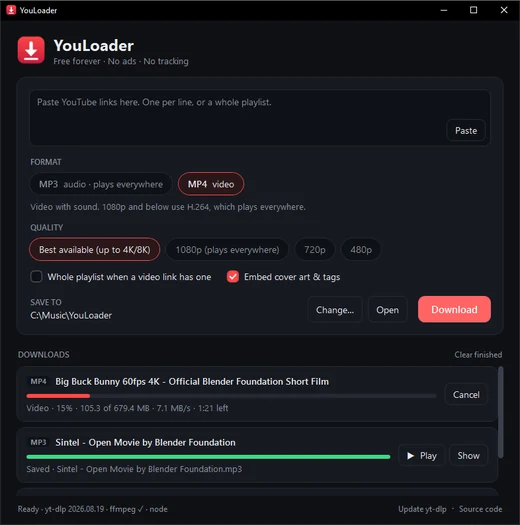
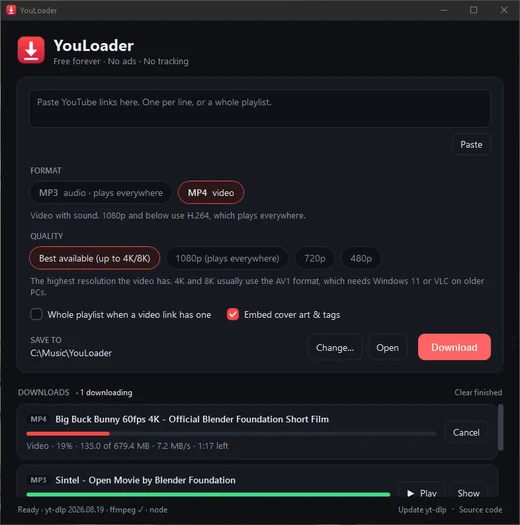
New README; real-download tests become a manual CI option
- README rewritten following common best practices: logo and tagline, live badges, one-click
  download, screenshot, comparison with converter sites, features, quick start, quality guide
  (kbps and VBR explained), FAQ, privacy, build and release steps, contributing, credits
- Screenshots refreshed with the current layout
- CI: YouTube often blocks GitHub's servers as bots, so real-download tests now run only when
  started by hand, and can't turn the badge red

diff --git a/README.md b/README.md
@@ -1,79 +1,186 @@
 <div align="center">
 
-<img src="src/YouLoader/Assets/logo.png" width="96" alt="YouLoader logo">
+<img src="src/YouLoader/Assets/logo.png" width="104" alt="YouLoader logo">
 
 # YouLoader
 
-**Downloads. Nothing else.**
+### Downloads. Nothing else.
 
 A free, open-source YouTube downloader for Windows.<br>
-MP3 and MP4, with no ads, no pop-ups, no sign-up and no tracking.
+MP3 and MP4, with **no ads, no pop-ups, no sign-up and no tracking**.
 
-[![Download](https://img.shields.io/github/v/release/SmileyBoy321/YouLoader?label=Download&style=for-the-badge&color=e8372c)](https://github.com/SmileyBoy321/YouLoader/releases/latest/download/YouLoader.exe)
-[![CI](https://img.shields.io/github/actions/workflow/status/SmileyBoy321/YouLoader/ci.yml?branch=master&style=for-the-badge&label=tests)](https://github.com/SmileyBoy321/YouLoader/actions/workflows/ci.yml)
-[![License: MIT](https://img.shields.io/badge/license-MIT-16140f?style=for-the-badge)](LICENSE)
+[![Latest release](https://img.shields.io/github/v/release/SmileyBoy321/YouLoader?style=flat-square&label=release&color=d43127)](https://github.com/SmileyBoy321/YouLoader/releases/latest)
+[![Downloads](https://img.shields.io/github/downloads/SmileyBoy321/YouLoader/total?style=flat-square&color=16140f)](https://github.com/SmileyBoy321/YouLoader/releases)
+[![Tests](https://img.shields.io/github/actions/workflow/status/SmileyBoy321/YouLoader/ci.yml?branch=master&style=flat-square&label=tests)](https://github.com/SmileyBoy321/YouLoader/actions/workflows/ci.yml)
+[![Windows 10 & 11](https://img.shields.io/badge/Windows-10%20%26%2011-0078D4?style=flat-square)](#quick-start)
+[![License: MIT](https://img.shields.io/badge/license-MIT-16140f?style=flat-square)](LICENSE)
 
-<img src="docs/screenshot.png" width="620" alt="The YouLoader window with MP3 and MP4 format choices and a download list">
+### [⬇&nbsp; Download YouLoader.exe](https://github.com/SmileyBoy321/YouLoader/releases/latest/download/YouLoader.exe)
+
+<sub>One portable file · nothing to install · about 64 MB</sub>
+
+<br>
+
+<img src="docs/screenshot.png" width="620" alt="The YouLoader window: a box for YouTube links, MP3 and MP4 choices with quality options, and a download list with progress, speed and time left">
 
 </div>
 
-## Why
+<br>
 
-Search for “YouTube to MP3” and you get sites full of pop-unders, fake download buttons and “allow notifications” traps. YouLoader is the opposite: a small app that runs on your own PC, does one job well, and asks for nothing in return.
+## Contents
 
-It follows the example of [VLC](https://www.videolan.org/): **free forever, no ads, no tracking, open source.** There's nothing to buy and nothing to donate to. If it's useful, star the repo or tell a friend.
+- [Why YouLoader](#why-youloader)
+- [Features](#features)
+- [Quick start](#quick-start)
+- [Picking a format and quality](#picking-a-format-and-quality)
+- [FAQ](#faq)
+- [Privacy](#privacy)
+- [Building from source](#building-from-source)
+- [Contributing](#contributing)
+- [Acknowledgements](#acknowledgements)
+
+## Why YouLoader
+
+Search for “YouTube to MP3” and you land on sites full of pop-unders, fake download buttons and “allow notifications” traps. They need all that to pay for servers that YouTube keeps blocking. YouLoader runs on your own PC instead, so it costs nothing to run and needs nothing from you.
+
+|                              | Typical converter site          | YouLoader                              |
+| ---------------------------- | ------------------------------- | -------------------------------------- |
+| Ads, pop-ups, redirects      | Everywhere                      | **None, ever**                         |
+| Fake “Download” buttons      | Common                          | **None**                               |
+| Account or notifications     | Often pushed on you             | **Never asked**                        |
+| Quality                      | Often capped at 128 kbps / 720p | **320 kbps MP3, video up to 4K/8K**    |
+| Whole playlists and channels | Rarely                          | **Yes, into numbered folders**         |
+| Length limits and queues     | Common                          | **None**                               |
+| Tracking                     | Ad networks and analytics       | **None; the code is public**           |
+
+It follows the example of [VLC](https://www.videolan.org/): **free forever, no ads, no tracking, open source.** There's nothing to buy and nothing to donate to. If it's useful, a ⭐ on this repo helps other people find it.
 
 ## Features
 
-- **MP3 and MP4.** MP3 up to 320 kbps, which plays on every device and car stereo. MP4 from 480p up to 4K and 8K.
-- **Playlists and channels** download into their own numbered folder. Paste the same link later and only new items are fetched.
-- **Cover art and tags** are embedded automatically, with thumbnails cropped square for music players.
-- **Several links at once**, two downloads in parallel, cancel and retry per item, and automatic retries when YouTube drops a connection.
-- **No accidental duplicates.** Pasting a video that's already in the list (however the link is written) is skipped, with a note saying so.
-- **Calm progress.** Speed and time left are averaged over a few seconds, so they count down smoothly instead of jumping around.
-- **Keeps working when YouTube changes.** YouLoader updates its download engine (yt-dlp) automatically once a day.
-- **Portable.** One `.exe`, nothing to install.
+- 🎵 **MP3 up to 320 kbps**, with the song title, artist and square cover art filled in.
+- 🎬 **MP4 from 480p up to 4K and 8K.** 1080p and below use H.264, which plays on every phone, TV and editor.
+- 📚 **Playlists and channels** download into their own numbered folder. Paste the same link later and only new videos are fetched.
+- 📋 **Paste many links at once.** A freshly copied YouTube link appears in the box by itself, and duplicates are skipped however the link is written.
+- 📊 **Calm, honest progress.** Speed and time left are averaged so they count down smoothly, and whatever is downloading right now stays at the top.
+- 💬 **Errors in plain English.** Every failed download has a **Why?** button that explains what happened and what to try, from “the file is open in another program” to “this video is private”.
+- 🔄 **Keeps working when YouTube changes.** The download engine, [yt-dlp](https://github.com/yt-dlp/yt-dlp), updates itself once a day, and short hiccups are retried automatically.
+- 🧳 **Portable.** One `.exe` that sets up everything it needs on first launch.
 
-## Download
+## Quick start
 
-Get **[YouLoader.exe](https://github.com/SmileyBoy321/YouLoader/releases/latest/download/YouLoader.exe)** from the [latest release](https://github.com/SmileyBoy321/YouLoader/releases/latest). It runs on Windows 10 and 11 (64-bit).
+1. **[Download YouLoader.exe](https://github.com/SmileyBoy321/YouLoader/releases/latest/download/YouLoader.exe)** and open it. Nothing to install.
+2. **Copy a YouTube link.** It appears in YouLoader by itself when you switch back, or use **Paste**.
+3. **Pick MP3 or MP4 and press Enter.** Files are saved in `Downloads\YouLoader` (change it with **Change…**).
 
-On first launch it downloads the official builds of [yt-dlp](https://github.com/yt-dlp/yt-dlp) and [ffmpeg](https://ffmpeg.org/), and [Deno](https://deno.com/) if no JavaScript runtime is installed. It keeps them in `%LocalAppData%\YouLoader\tools`.
+> [!NOTE]
+> On first launch YouLoader downloads the official builds of [yt-dlp](https://github.com/yt-dlp/yt-dlp), [ffmpeg](https://ffmpeg.org/) and, if needed, [Deno](https://deno.com/): up to about 200 MB, once. They're kept in `%LocalAppData%\YouLoader\tools`.
 
-> Windows may say *“Windows protected your PC”* because the app isn't code-signed yet. Click **More info → Run anyway**. Each release lists the file's SHA-256 checksum so you can verify it.
+> [!WARNING]
+> Windows may show **“Windows protected your PC”** because YouLoader isn't code-signed yet. Click **More info → Run anyway**. Every release lists the file's SHA-256 checksum, so you can check the download is exactly what GitHub built from this code.
 
-## Which format should I pick?
+## Picking a format and quality
 
-| | MP3 | MP4 |
-|---|---|---|
-| **What** | Music | Video + audio |
-| **Quality** | 320, ~245 or 192 kbps | 480p up to 4K/8K |
-| **4-minute song** | ≈ 9.6 MB at 320 kbps | depends on resolution |
-| **Plays on** | Everything, car stereos too | Everything at 1080p |
+**MP3** is for music and plays on everything, car stereos included. **MP4** is for video.
 
-MP3 at 320 kbps sounds the same as YouTube to virtually everyone. For video that has to play on older TVs or editing software, pick 1080p.
+| MP3 quality         | 4-minute song | What it means                                                                                                                                   |
+| ------------------- | ------------- | ----------------------------------------------------------------------------------------------------------------------------------------------- |
+| **320 kbps** (best) | ≈ 9.6 MB      | *kbps* is how much sound is kept per second. 320 is the most MP3 can hold and sounds the same as YouTube.                                      |
+| **~245 kbps VBR**   | ≈ 7.3 MB      | *VBR* (variable bitrate) spends more data on busy parts of a song and less on quiet ones. Sounds the same to almost everyone, about 25% smaller. |
+| **192 kbps**        | ≈ 5.8 MB      | The smallest files. Fine for podcasts and talk.                                                                                                  |
+
+| MP4 quality         | What you get                                                                                                 |
+| ------------------- | ------------------------------------------------------------------------------------------------------------ |
+| **Best available**  | The highest resolution the video has, up to 4K/8K. Usually AV1, which needs Windows 11 or VLC on older PCs. |
+| **1080p**           | Full HD in H.264. Opens everywhere.                                                                          |
+| **720p** / **480p** | Smaller files for phones and slow connections.                                                               |
+
+> [!TIP]
+> Downloaded songs can sound **louder** than on YouTube. That's normal: YouTube turns loud songs down while you watch, and a downloaded file keeps the original volume.
+
+## FAQ
+
+<details>
+<summary><b>Is it really free?</b></summary>
+<br>
+
+Yes. No trial, no premium tier, no ads, nothing to buy and nothing to donate to. It's MIT-licensed open source.
+</details>
+
+<details>
+<summary><b>Is it safe?</b></summary>
+<br>
+
+All the code is in this repository, and every release is built from it by [GitHub Actions](.github/workflows/release.yml), not on someone's PC. YouLoader only ever runs tools it downloaded from the official yt-dlp, ffmpeg and Deno release pages.
+</details>
+
+<details>
+<summary><b>A download failed. What now?</b></summary>
+<br>
+
+Click **Why?** on the failed download. It explains the likely cause and what to try. If it keeps happening, click **Report a problem**: it opens a pre-filled issue here and copies the technical details for you, with your Windows user name hidden.
+</details>
+
+<details>
+<summary><b>Why isn't there a web version?</b></summary>
+<br>
+
+A website has to download every video on its own servers. YouTube blocks those servers, and sending files to millions of people costs a lot of money, which is why converter sites are covered in ads. Running on your own PC avoids all of that.
+</details>
+
+<details>
+<summary><b>Is there a Mac, Linux or Android version?</b></summary>
+<br>
+
+Windows 10 and 11 for now. The core is cross-platform .NET, so other versions are possible. Watch this repo to hear about them.
+</details>
+
+<details>
+<summary><b>How do I uninstall it?</b></summary>
+<br>
+
+Delete `YouLoader.exe`, plus the folders `%AppData%\YouLoader` (settings) and `%LocalAppData%\YouLoader` (helper tools). That's everything.
+</details>
+
+## Privacy
+
+- **No accounts, no analytics, no telemetry, no crash reporting.** Nothing about you or your downloads is ever sent anywhere.
+- YouLoader connects only to **YouTube** (to download what you ask for) and **GitHub** (to fetch its helper tools, update yt-dlp, and check for a new YouLoader version).
+- Settings live in `%AppData%\YouLoader\settings.json` on your PC.
+
+> [!IMPORTANT]
+> **Please download responsibly.** Only download videos you own, videos that are openly licensed (for example Creative Commons or public domain), or videos you have permission to download. Respect creators and YouTube's terms of service.
 
 ## Building from source
 
-Requires the [.NET 10 SDK](https://dotnet.microsoft.com/download) on Windows.
+<details>
+<summary><b>Build, test and publish</b></summary>
+<br>
+
+You need Windows and the [.NET 10 SDK](https://dotnet.microsoft.com/download).
 
 ```powershell
 git clone https://github.com/SmileyBoy321/YouLoader.git
 cd YouLoader
-dotnet run --project src/YouLoader                  # run it
-dotnet test                                         # unit tests
-$env:YOULOADER_INTEGRATION = "1"; dotnet test       # plus real downloads from YouTube
-dotnet publish src/YouLoader -c Release -o dist     # portable dist/YouLoader.exe
+
+dotnet run --project src/YouLoader                 # run the app
+dotnet test                                        # unit tests
+$env:YOULOADER_INTEGRATION = "1"; dotnet test      # plus real downloads from YouTube
+dotnet publish src/YouLoader -c Release -o dist    # portable dist\YouLoader.exe
 ```
 
-| Folder | What's inside |
-|---|---|
-| `src/YouLoader.Core` | Everything testable: yt-dlp arguments, output parsing, tool management, the download queue model |
-| `src/YouLoader` | The WPF window |
-| `tests/YouLoader.Tests` | Unit tests, plus integration tests that run real downloads |
-| `website` | The landing page: `python website/build.py` builds it into `website/public`, which Cloudflare Pages serves |
+| Folder                  | What's inside                                                                                          |
+| ----------------------- | ------------------------------------------------------------------------------------------------------ |
+| `src/YouLoader.Core`    | Everything testable: yt-dlp arguments, progress parsing, error explanations, tools, the download queue |
+| `src/YouLoader`         | The WPF window                                                                                         |
+| `tests/YouLoader.Tests` | Unit tests, plus integration tests that run real downloads                                             |
+| `website`               | The landing page. `python website/build.py` builds it into `website/public`                            |
 
-## Releasing
+The real-download tests are best run on your own PC: YouTube often treats data-centre servers, like GitHub's, as bots.
+</details>
+
+<details>
+<summary><b>Releasing a new version</b></summary>
+<br>
 
 Bump `<Version>` in `src/YouLoader/YouLoader.csproj`, commit, then tag and push:
 
@@ -82,12 +189,20 @@ git tag v2.0.1
 git push origin v2.0.1
 ```
 
-GitHub Actions runs the tests, builds `YouLoader.exe` and publishes it with its checksum. The website's download button always points at the newest release.
+GitHub Actions runs the tests, builds `YouLoader.exe` and publishes it with its checksum on the Releases page.
+</details>
 
-## Please download responsibly
+## Contributing
 
-YouLoader is a tool, like a browser or a video recorder. Only download content you own, content that's openly licensed (such as Creative Commons or public domain), or content you have permission to download. Respect creators and each site's terms of service.
+Bug reports and ideas are very welcome: [open an issue](https://github.com/SmileyBoy321/YouLoader/issues). For code changes, fork the repo, run `dotnet test`, and open a pull request. The one rule that never changes: **no ads, no tracking, no paywalls.**
+
+## Acknowledgements
+
+- [yt-dlp](https://github.com/yt-dlp/yt-dlp) does the downloading, and [FFmpeg](https://ffmpeg.org/) the converting. YouLoader is a friendly front end for their brilliant work.
+- [Deno](https://deno.com/) runs the JavaScript YouTube needs, when no other runtime is installed.
+- [VLC](https://www.videolan.org/) and VideoLAN, for showing that software can stay free, ad-free and respectful for decades.
+- The screenshots and demo use Blender Foundation's open movies [*Big Buck Bunny*](https://peach.blender.org/), [*Sintel*](https://durian.blender.org/) and [*Tears of Steel*](https://mango.blender.org/) (CC BY), and [*Me at the zoo*](https://www.youtube.com/watch?v=jNQXAC9IVRw), the first video on YouTube.
 
 ## License
 
-[MIT](LICENSE). YouLoader relies on [yt-dlp](https://github.com/yt-dlp/yt-dlp) (Unlicense) and [ffmpeg](https://ffmpeg.org/) (GPL build), which it downloads separately at runtime.
+[MIT](LICENSE). YouLoader downloads [yt-dlp](https://github.com/yt-dlp/yt-dlp) (Unlicense), [FFmpeg](https://ffmpeg.org/) (GPL build) and [Deno](https://deno.com/) (MIT) separately at runtime; they are not bundled with it.
